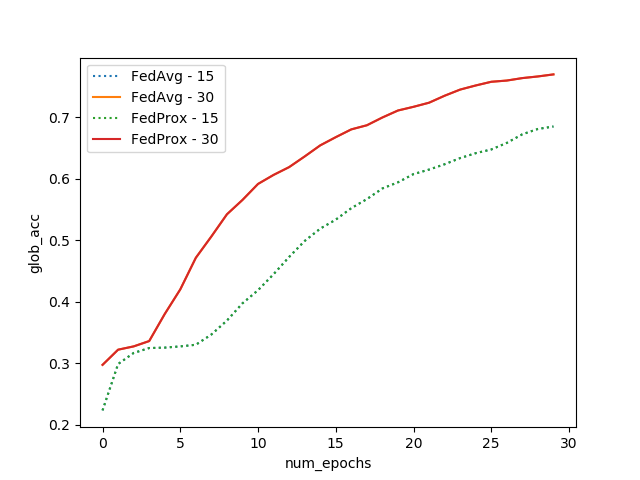
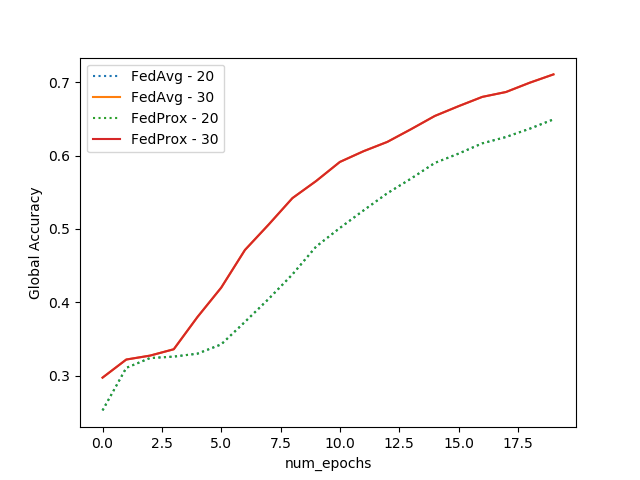
Update figs and code

diff --git a/federated-learning-master/FedAvg/main_fed.py b/federated-learning-master/FedAvg/main_fed.py
@@ -417,56 +417,60 @@ def plot_rs(loc_ep,alg):
     plt.savefig('glob_loss_{}_{}.png'.format(alg, loc_ep))
 
 def plot_summary():
+
+    Numb_Glob_Iters=20
+    Numb_Algs = 2
+
     avg_acc, avg_acc1     = np.zeros((3,30)), np.zeros((3,30))
     avg_loss, avg_loss1   = np.zeros((3, 30)), np.zeros((3, 30))
     glob_acc, glob_acc1   = np.zeros((3, 30)), np.zeros((3, 30))
     glob_loss, glob_loss1 = np.zeros((3, 30)), np.zeros((3, 30))
 
 
-    avg_acc[0, :], avg_loss[0, :], glob_acc[0, :], glob_loss[0, :] = simple_read_data(15, 'fedavg')
-    avg_acc[1, :], avg_loss[1, :], glob_acc[1, :], glob_loss[1, :] = simple_read_data(15, 'fedprox')
-    avg_acc[2, :], avg_loss[2, :], glob_acc[2, :], glob_loss[2, :] = simple_read_data(15, 'fedprox1')
+    avg_acc[0, :], avg_loss[0, :], glob_acc[0, :], glob_loss[0, :] = simple_read_data(20, 'fedavg')
+    avg_acc[1, :], avg_loss[1, :], glob_acc[1, :], glob_loss[1, :] = simple_read_data(20, 'fedprox')
+    avg_acc[2, :], avg_loss[2, :], glob_acc[2, :], glob_loss[2, :] = simple_read_data(20, 'fedprox1')
 
     avg_acc1[0, :], avg_loss1[0, :], glob_acc1[0, :], glob_loss1[0, :] = simple_read_data(30, 'fedavg')
     avg_acc1[1, :], avg_loss1[1, :], glob_acc1[1, :], glob_loss1[1, :] = simple_read_data(30, 'fedprox')
     avg_acc1[2, :], avg_loss1[2, :], glob_acc1[2, :], glob_loss1[2, :] = simple_read_data(30, 'fedprox1')
-    algs_lbl = ["FedAvg - 15", "FedProx - 15","FedProx1 - 15"]
+    algs_lbl = ["FedAvg - 20", "FedProx - 20","FedProx1 - 20"]
     algs_lbl1 = ["FedAvg - 30", "FedProx - 30", "FedProx1 - 30"]
 
     plt.figure(1)
-    for i in range(2):
-        plt.plot(avg_acc[i, :], linestyle=":", label=algs_lbl[i])
-        plt.plot(avg_acc1[i, :], label=algs_lbl1[i])
+    for i in range(Numb_Algs):
+        plt.plot(avg_acc[i, :Numb_Glob_Iters], linestyle=":", label=algs_lbl[i])
+        plt.plot(avg_acc1[i, :Numb_Glob_Iters], label=algs_lbl1[i])
     plt.legend(loc='best')
-    plt.ylabel('avg_acc')
-    plt.xlabel('num_epochs')
+    plt.ylabel('Average Accuracy')
+    plt.xlabel('Number of Global Iterations')
     plt.savefig('avg_acc.png')
 
     plt.figure(2)
-    for i in range(2):
-        plt.plot(avg_loss[i, :], linestyle=":", label=algs_lbl[i])
-        plt.plot(avg_loss1[i, :], label=algs_lbl1[i])
+    for i in range(Numb_Algs):
+        plt.plot(avg_loss[i, :Numb_Glob_Iters], linestyle=":", label=algs_lbl[i])
+        plt.plot(avg_loss1[i, :Numb_Glob_Iters], label=algs_lbl1[i])
     plt.legend(loc='best')
-    plt.ylabel('avg_loss')
-    plt.xlabel('num_epochs')
+    plt.ylabel('Average Loss')
+    plt.xlabel('Number of Global Iterations')
     plt.savefig('avg_loss.png')
 
     plt.figure(3)
-    for i in range(2):
-        plt.plot(glob_acc[i, :], linestyle=":", label=algs_lbl[i])
-        plt.plot(glob_acc1[i, :], label=algs_lbl1[i])
+    for i in range(Numb_Algs):
+        plt.plot(glob_acc[i, :Numb_Glob_Iters], linestyle=":", label=algs_lbl[i])
+        plt.plot(glob_acc1[i, :Numb_Glob_Iters], label=algs_lbl1[i])
     plt.legend(loc='best')
-    plt.ylabel('glob_acc')
+    plt.ylabel('Global Accuracy')
     plt.xlabel('num_epochs')
     plt.savefig('glob_acc.png')
 
     plt.figure(4)
-    for i in range(2):
-        plt.plot(glob_loss[i, :], linestyle=":", label=algs_lbl[i])
-        plt.plot(glob_loss1[i, :], label=algs_lbl1[i])
+    for i in range(Numb_Algs):
+        plt.plot(glob_loss[i, :Numb_Glob_Iters], linestyle=":", label=algs_lbl[i])
+        plt.plot(glob_loss1[i, :Numb_Glob_Iters], label=algs_lbl1[i])
     plt.legend(loc='best')
-    plt.ylabel('glob_loss')
-    plt.xlabel('num_epochs')
+    plt.ylabel('Global Loss')
+    plt.xlabel('Number of Global Iterations')
     plt.savefig('glob_loss.png')
 
 
@@ -484,7 +488,7 @@ if __name__ == '__main__':
     if(SUMARRY):
         plot_summary()
     else:
-       main(loc_ep=15, weighted=True, alg='fedprox') #'fedavg', 'fedprox', 'fsvgr'
+       main(loc_ep=10, weighted=False, alg='fedprox') #'fedavg', 'fedprox', 'fsvgr'
        print("-- FINISH -- :",)
 
 
